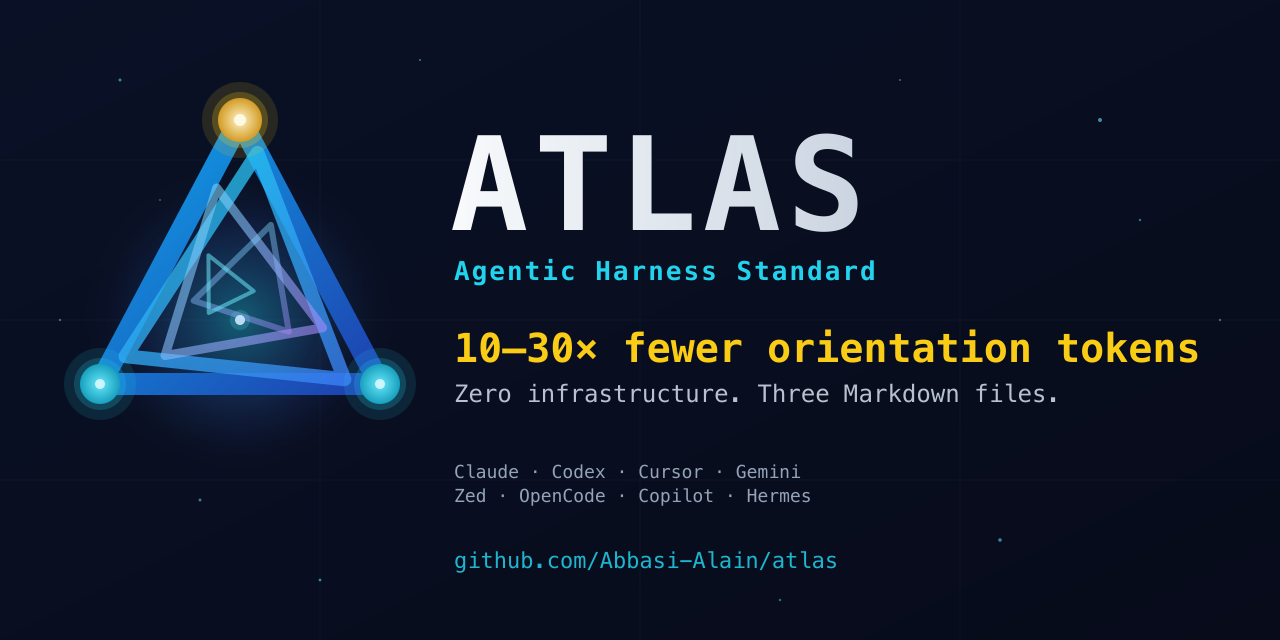
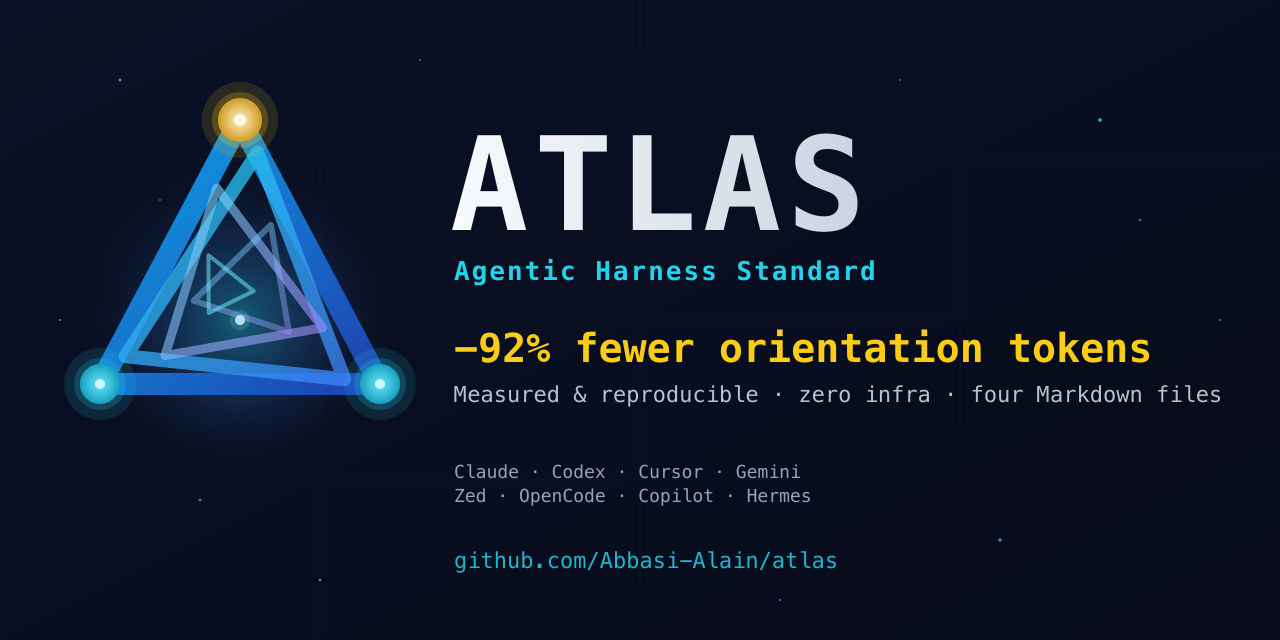
docs: refresh social card to the measured number (−92%) + four-file framing
- assets/social-card.svg: "10–30×" → "−92% fewer orientation tokens";
  "Three Markdown files" → "Measured & reproducible · zero infra · four
  Markdown files" (SCARS.md was the missing fourth).
- assets/social-card.png: re-rendered 1280×640.
- docs/index.html: og:image/twitter:image → raw.githubusercontent social-card.png.

Changed region(s): [[0.3438, 0.5, 0.9375, 0.5625], [0.3438, 0.5938, 0.9688, 0.6562]]

diff --git a/docs/index.html b/docs/index.html
@@ -7,6 +7,12 @@
 <meta name="description" content="A 4-file Markdown standard that cuts agent orientation tokens 75–94% — measured on FastAPI, Django, curl, OpenClaw, Hermes and more. Zero infrastructure.">
 <meta property="og:title" content="ATLAS — the map your AI agents read first">
 <meta property="og:description" content="−75% to −94% agent orientation tokens, measured on repos you know. Zero infra. Works with Claude Code, Cursor, Codex, OpenClaw, Gemini.">
+<meta property="og:url" content="https://abbasi-alain.github.io/atlas/">
+<meta property="og:image" content="https://raw.githubusercontent.com/Abbasi-Alain/atlas/main/assets/social-card.png">
+<meta name="twitter:card" content="summary_large_image">
+<meta name="twitter:title" content="ATLAS — the map your AI agents read first">
+<meta name="twitter:description" content="−75% to −94% agent orientation tokens, measured on repos you know. Zero infra.">
+<meta name="twitter:image" content="https://raw.githubusercontent.com/Abbasi-Alain/atlas/main/assets/social-card.png">
 <style>
   :root{--bg:#0b1020;--card:#121a33;--bd:#243056;--fg:#e8ecf6;--mut:#9aa6c4;--cy:#22d3ee;--gr:#34d399;--am:#f59e0b}
   *{box-sizing:border-box}